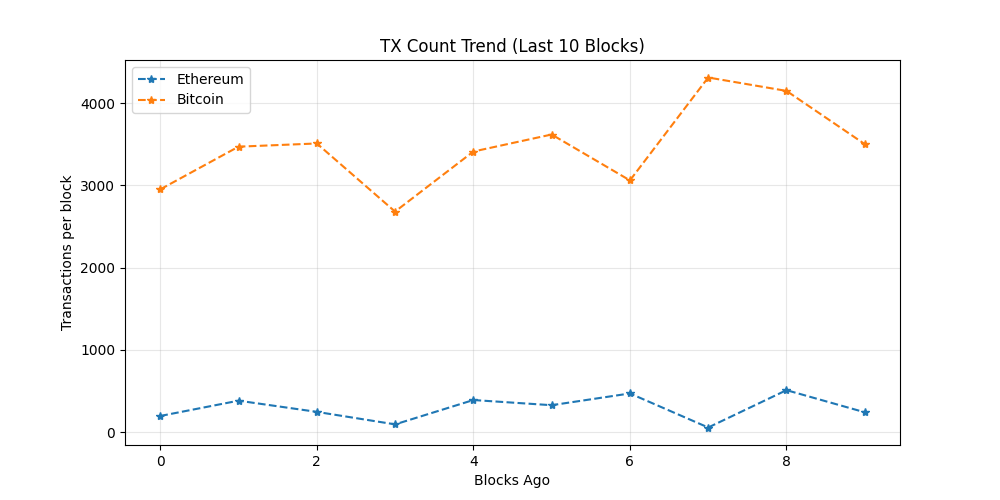
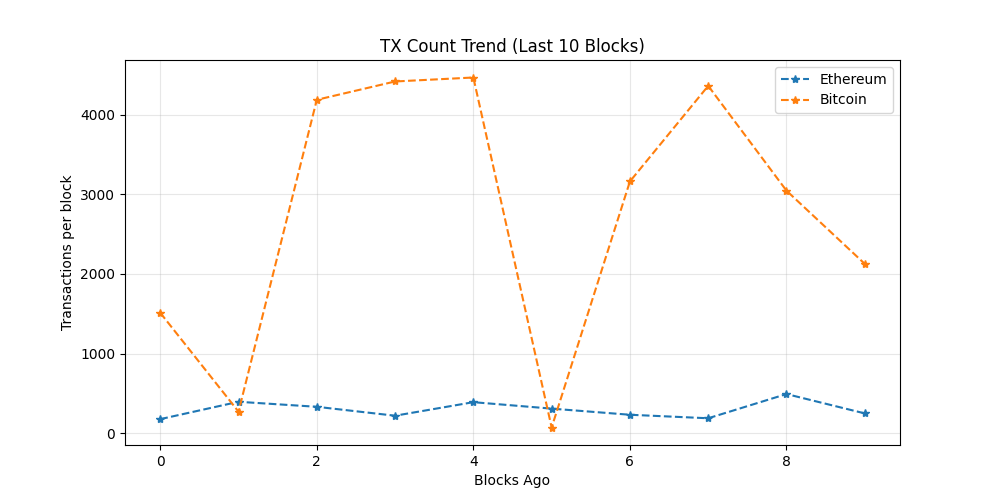
chore: update on-chain dashboard

diff --git a/README.md b/README.md
@@ -19,7 +19,7 @@ The README itself acts as the dashboard and is regenerated automatically on a 6 
 demonstrating a production-style, infrastructure-focused observability workflow rather
 than a traditional UI-driven approach.
 
-_Last updated: 2026-03-10 19:08 UTC_
+_Last updated: 2026-03-11 02:49 UTC_
 
 ## API Usage (GetBlock.io)
 - Calls used: **24**
@@ -27,8 +27,8 @@ _Last updated: 2026-03-10 19:08 UTC_
 ## Network Metrics
 | Chain | Block Height | TX Count | TPS (10 blk avg) | Block Util | Avg Fee |
 |------|-------------|----------|------------------|------------|---------|
-| Ethereum | 24629051 | 241 | 20.08 | 39.65% | 0.1 Gwei |
-| Bitcoin | 940152 | 3501 | 2.68 | 99.79% | N/A |
+| Ethereum | 24631347 | 249 | 20.75 | 57.24% | 0.0 Gwei |
+| Bitcoin | 940209 | 2127 | 4.32 | 99.8% | N/A |
 
 ## Visuals
 ### Transactions Trend
@@ -43,11 +43,9 @@ _Last updated: 2026-03-10 19:08 UTC_
 ## Whale Alerts (latest block)
 - Transaction hashes are truncated for readability.
 - Full hashes are available in `dashboards/metrics.json`
-- Bitcoin | 276.0 BTC | `b4eb42bf05eb…`
-- Bitcoin | 690.0 BTC | `b54eea29e1c3…`
-- Bitcoin | 134.91 BTC | `10d15ac1de15…`
-- Bitcoin | 155.95 BTC | `2eab64380dfd…`
-- Bitcoin | 133.09 BTC | `a4f9df0f742e…`
+- Bitcoin | 239.11 BTC | `88e1ce609774…`
+- Bitcoin | 169.0 BTC | `e9562fe97b3c…`
+- Bitcoin | 224.22 BTC | `3feeb4c798ba…`
 
 ## Run locally
 
